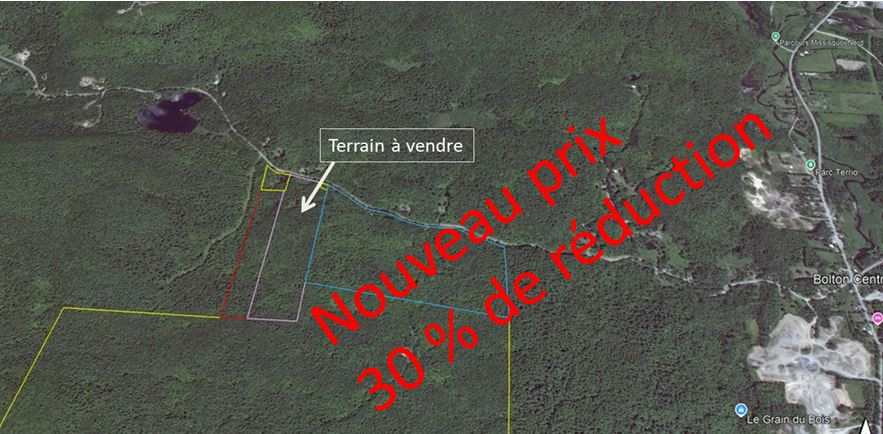
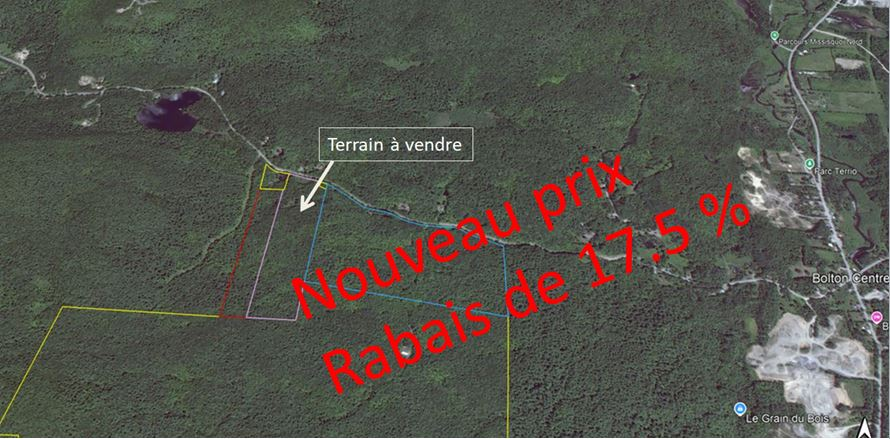
Update site pages and image assets

diff --git a/prix.html b/prix.html
@@ -30,8 +30,8 @@
           <div class= "fw-bold">
               <div class= "text-center">
                 <span class="fs-2">
-                  <a><br><br><span class="prix-flash">Prix demandé</span> : <span style="position: relative; display: inline-block;">1 000 000 $<span style="position: absolute; top: 50%; left: -8px; width: calc(100% + 4px); border-top: 10px solid #d10000; transform: rotate(-15deg);"></span></span> 700 000 $ canadiens<br>
-                  5,40 $ du mètre carré (0,50 $ du pied carré)</a>
+                  <a><br><br><span class="prix-flash">Prix demandé</span> : <span style="position: relative; display: inline-block;">1 000 000 $<span style="position: absolute; top: 50%; left: -8px; width: calc(100% + 4px); border-top: 10px solid #d10000; transform: rotate(-15deg);"></span></span> 825 000 $ canadiens<br>
+                  6,40 $ du mètre carré (0,60 $ du pied carré)</a>
                 </span> 
               </div>   
           </div>

diff --git a/prix_a.html b/prix_a.html
@@ -33,8 +33,8 @@
           <div class= "fw-bold">
               <div class= "text-center">
                 <span class="fs-2">
-                  <a><br><br><span class="prix-flash">Asking Price</span> : <span style="position: relative; display: inline-block;">1 000 000 $<span style="position: absolute; top: 50%; left: -8px; width: calc(100% + 4px); border-top: 10px solid #d10000; transform: rotate(-15deg);"></span></span> 700 000 CAD<br>
-                  5,40 CAD per square meter (0,50 CAD per square foot)</a>
+                  <a><br><br><span class="prix-flash">Asking Price</span> : <span style="position: relative; display: inline-block;">1 000 000 $<span style="position: absolute; top: 50%; left: -8px; width: calc(100% + 4px); border-top: 10px solid #d10000; transform: rotate(-15deg);"></span></span> 825 000 CAD<br>
+                  6,40 CAD per square meter (0,60 CAD per square foot)</a>
                 </span> 
               </div>   
      

diff --git a/index.html b/index.html
@@ -72,7 +72,7 @@
     </div>
   </section>
 
-  <img class="img-fluid w-80 d-none d-sm-block mx-auto" src="image/terrain750k.JPG" alt="Vue du terrain à vendre à Bolton-Est"/>
+  <img class="img-fluid w-80 d-none d-sm-block mx-auto" src="image/terrain825k.JPG" alt="Vue du terrain à vendre à Bolton-Est"/>
 <p style="white-space: pre-line;">\n</p>
 
   <div id="footer"></div>

diff --git a/index_a.html b/index_a.html
@@ -70,7 +70,7 @@
     </div>
   </section>
 
-                <img class="img-fluid w-80 d-none d-sm-block mx-auto" src="image/terrain750ka_a.JPG" alt="View of the land for sale in Bolton-Est"/>
+                <img class="img-fluid w-80 d-none d-sm-block mx-auto" src="image/terrain825k_a.JPG" alt="View of the land for sale in Bolton-Est"/>
 
   <div id="footer"></div>
 